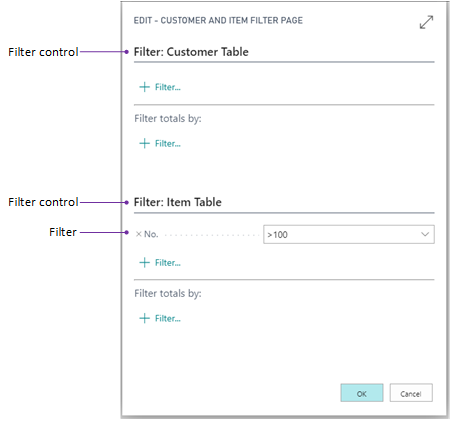
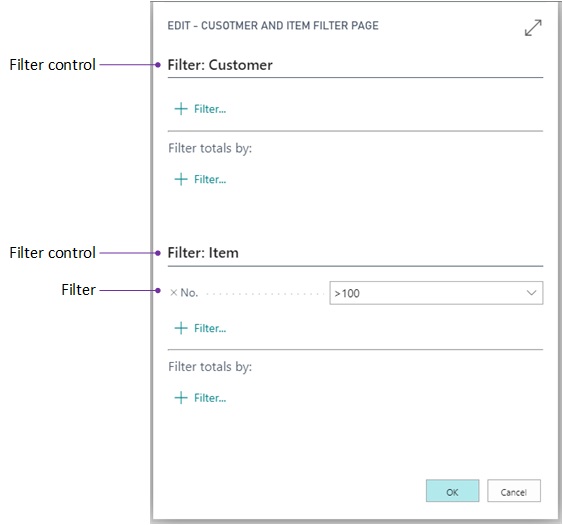
Github2297 filterpage (#3592)

diff --git a/dev-itpro/developer/devenv-filter-pages-for-filtering-tables.md b/dev-itpro/developer/devenv-filter-pages-for-filtering-tables.md
@@ -20,14 +20,16 @@ To create a filter page, you use AL code and the methods that are available for 
   
 ```AL
 var
-    varItem: Record Item;
-    varFilterPageBuilder: FilterPageBuilder;
+    Item: Record Item;
+    Customer: Record Customer;
+    FilterPage: FilterPageBuilder;
+    FilterPageCaption: TextConst ENU = 'Customer and Item Filter Page';
 begin
-    varFilterPageBuilder.AddTable('Customer Table', Database::Customer);
-    varFilterPageBuilder.AddRecord('Item Table', varItem);
-    varFilterPageBuilder.Addfield('Item Table', varItem."No.", '>100');
-    varFilterPageBuilder.PageCaption := 'Customer and Item Filter Page';
-    varFilterPageBuilder.RunModal();
+    FilterPage.AddTable(Customer.TableCaption(), Database::Customer);
+    FilterPage.AddRecord(Item.TableCaption(), Item);
+    FilterPage.Addfield(Item.TableCaption(), Item."No.", '>100');
+    FilterPage.PageCaption := FilterPageCaption;
+    FilterPage.RunModal();
 end;
 ```
   
